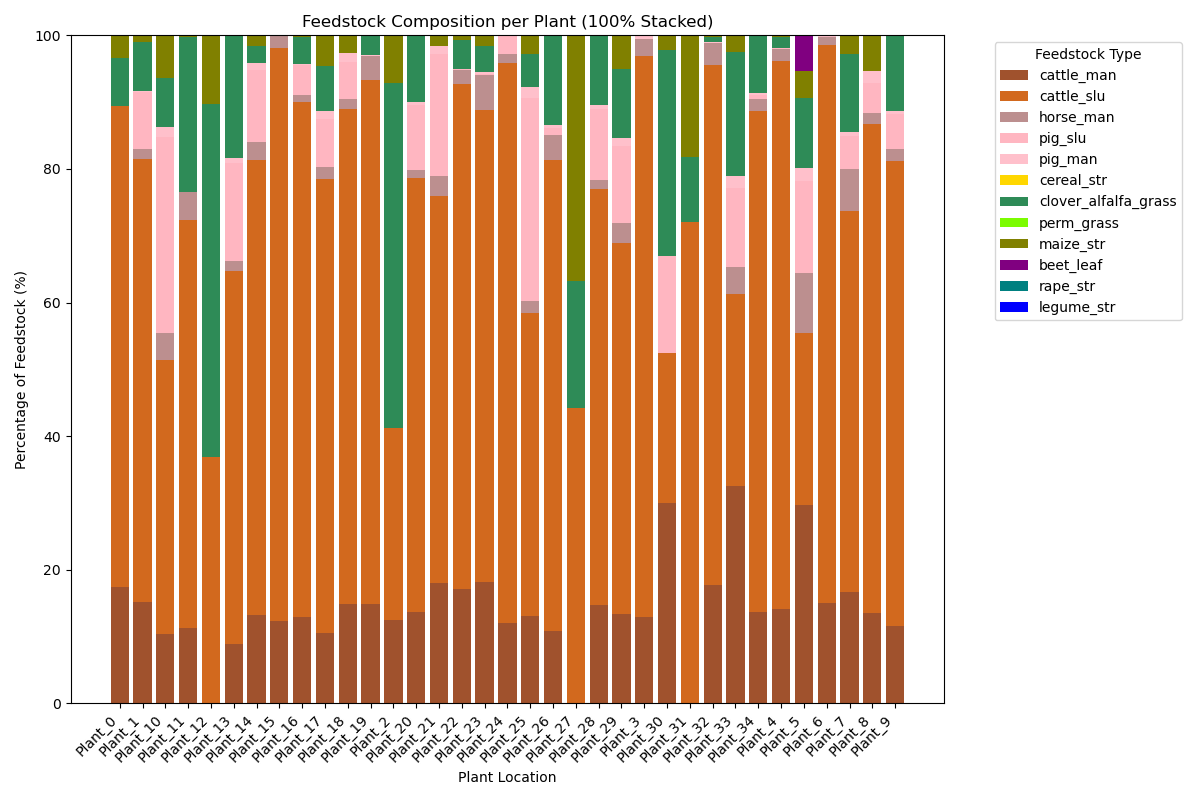
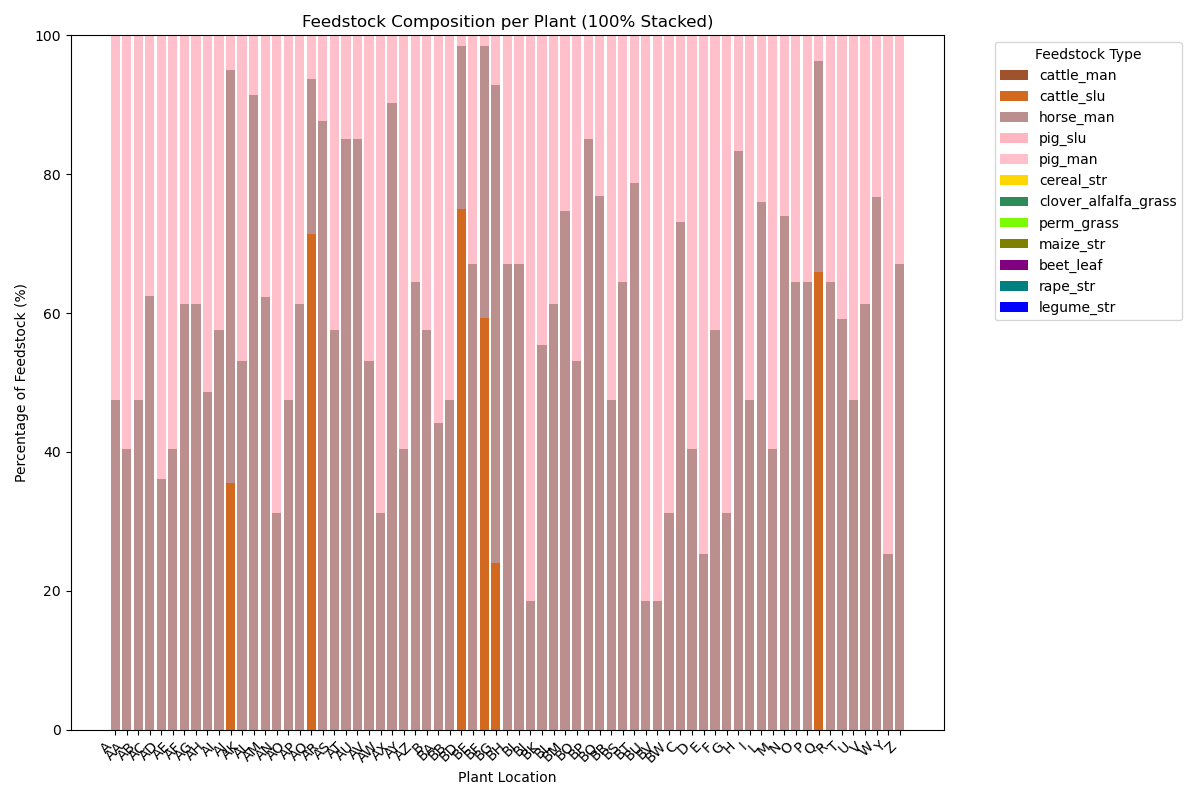
add

diff --git a/code/plots.py b/code/plots.py
@@ -139,7 +139,11 @@ def plot_cluster_heatmap(in_flow_df, yields_df, fin_df,
         "nonEEG_CHP"           : "orange",
         "FlexEEG_biomethane"   : "green",
         "EEG_CHP_large1"    : "red",
-        "EEG_CHP_large2" : "pink", 
+        "EEG_CHP_large2" : "pink",
+        "EEG_CHP_small1"   : "magenta",
+        "EEG_CHP_small2"    : "lightblue",
+        "boiler" : "black",
+
 
     }
 
@@ -150,7 +154,10 @@ def plot_cluster_heatmap(in_flow_df, yields_df, fin_df,
         "nonEEG_CHP"          : "CHP (no EEG)",
         "FlexEEG_biomethane"  : "Flex-EEG (biomethane)",
         "EEG_CHP_large1"    : "150kw EEG Manure",
-        "EEG_CHP_large2" : "150kw EEG Manure + Clover", 
+        "EEG_CHP_large2" : "150kw EEG Manure + Clover",        
+        "EEG_CHP_small1"   : "75kw EEG Manure",
+        "EEG_CHP_small2"    : "75kw EEG Manure + Clover",
+        "boiler" : "Boiler", 
     }
 
     # -----------------------------------------------------------
@@ -304,27 +311,33 @@ def plot_cluster_heatmap(in_flow_df, yields_df, fin_df,
 
     # 1) All 75 candidate locations
     all_plants = set(plant_df['Location'])
+    #print(f"DEBUG: total candidates = {len(all_plants)}")
 
     # 2) Those that actually got built
     built_plants = set(fin_df['PlantLocation'])
+    #print(f"DEBUG: built plants = {built_plants}")
 
     # 3) The remainder are “no build”
-    no_builds = all_plants - built_plants
+    no_builds = sorted(all_plants - built_plants)
+    #print(f"DEBUG: no-build count = {len(no_builds)}, list = {no_builds}")
 
     # 4) Plot them as transparent grey X’s
-    for loc in sorted(no_builds):
+    for loc in no_builds:
+        if loc not in plant_coords:
+            #print(f"WARNING: {loc} missing from plant_coords!")
+            continue
         lon, lat = plant_coords[loc]
+        #print(f"  plotting no-build at {loc}: ({lon:.3f}, {lat:.3f})")
         ax.scatter(
             lon, lat,
             marker='x',
-            s=80,
-            facecolor='none',
+            s=200,
+            facecolor='black',
             edgecolor='grey',
-            linewidth=1.0,
+            linewidth=2,
             alpha=0.7,
             zorder=3
         )
-
 
     # Now plot built plants and annotate
     for _, r in fin_df.iterrows():
@@ -356,6 +369,12 @@ def plot_cluster_heatmap(in_flow_df, yields_df, fin_df,
     # build legend handles
     # -----------------------------------------------------------
     handles, labels = [], []
+
+    # no-build legend entry
+    handles.append( plt.Line2D([], [], marker='x', color='black',
+                               linestyle='', markersize=8,
+                               markeredgewidth=1.2) )
+    labels.append("No‐build location")
 
     # 1) alternative-type legend  (colour only, fixed size)
     for alt_key, col in alt_colors.items():
@@ -448,6 +467,6 @@ color_map = {
 
 
 #plot_methane_fraction(fin_df, system_methane_average)
-#plot_feedstock_stacked_chart(in_flow_df, feedstock_types, color_map)
+plot_feedstock_stacked_chart(in_flow_df, feedstock_types, color_map)
 plot_cluster_heatmap(in_flow_df, yields_df, fin_df, plant_coords, supply_coords,FILES["bavaria_geojson"], os.path.join(BASE_DIR, "cluster_heatmap.png"))
 #plot_bavaria_lau_highlight_with_labels(gisco_ids)

diff --git a/code/small_scale.py b/code/small_scale.py
@@ -24,8 +24,8 @@ output_dir = os.path.join(BASE_DIR, "results/small_scale_added")
 os.makedirs(output_dir, exist_ok=True)
 
 feedstock_df = pd.read_csv(f"{BASE_DIR}aggregated_bavaria_supply_nodes.csv")
-plant_df = pd.read_csv(f"{BASE_DIR}equally_spaced_locations_75.csv")
-distance_df = pd.read_csv(f"{BASE_DIR}Distance_Matrix_75.csv")
+plant_df = pd.read_csv(f"{BASE_DIR}equally_spaced_locations_100.csv")
+distance_df = pd.read_csv(f"{BASE_DIR}Distance_Matrix_100.csv")
 yields_df = pd.read_csv(f"{BASE_DIR}Feedstock_yields.csv")
 
 def is_cereal(ft):
@@ -79,7 +79,7 @@ r = 0.042
 years = 25
 kappa = sum(1/(1+r)**t for t in range(1, years+1))
 EEG_price_small = 210.0
-EEG_price_med = 190.0 + 25
+EEG_price_med = 190.0
 EEG_skip_chp_price = 194.3
 EEG_skip_upg_price = 210.4
 gas_price_mwh = 30
